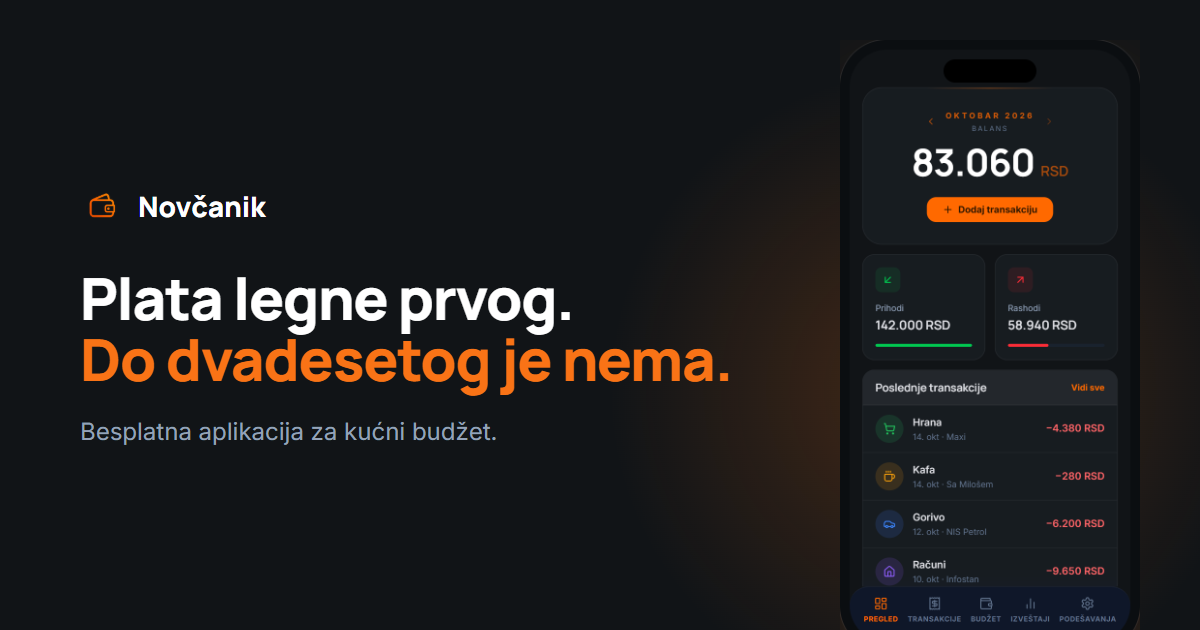
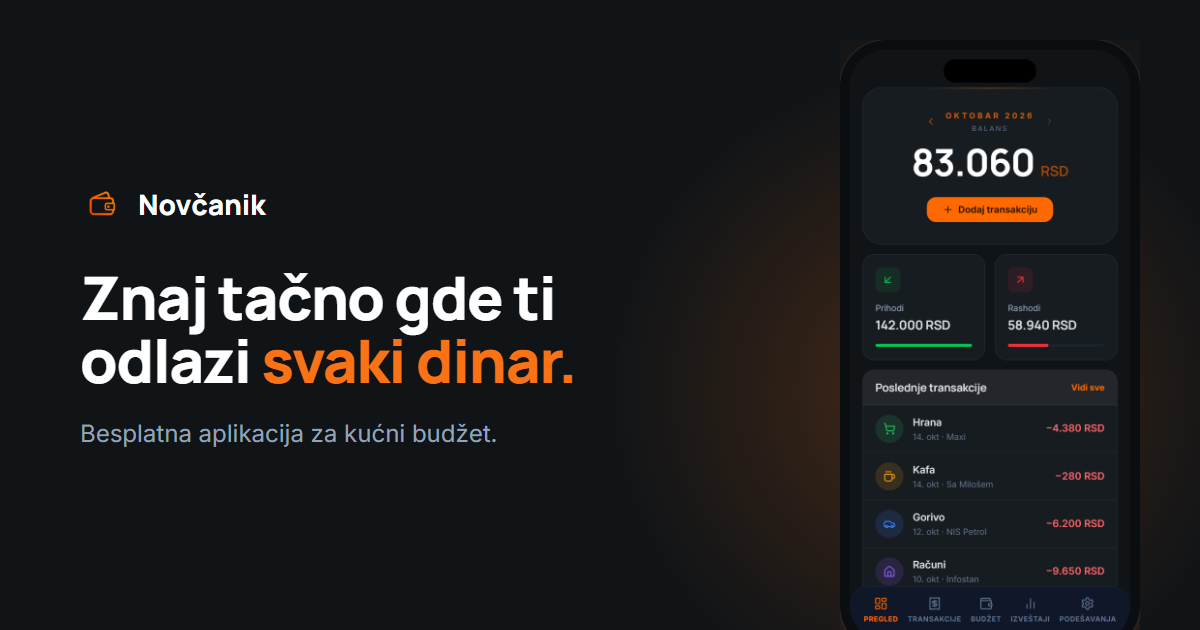
feat(landing): lead with what the app does and add a plan section
The opening line was a joke that did not say what Novčanik is. It now states the benefit directly, followed by a three-step section (track, cut bills, allocate in advance) and a sharper budget step; meta and share image follow the new headline.

Changed region(s): [[0.0617, 0.4222, 0.6167, 0.6333], [0.0617, 0.6635, 0.4008, 0.7238], [0.0617, 0.3016, 0.2158, 0.3619]]

diff --git a/index.html b/index.html
@@ -6,7 +6,7 @@
     <link rel="icon" type="image/png" href="/favicon.png" />
     <link rel="apple-touch-icon" href="/icon-192.png" />
     <title>Novčanik · Besplatna aplikacija za kućni budžet i praćenje troškova</title>
-    <meta name="description" content="Besplatna aplikacija za kućni budžet i praćenje troškova. Upisuješ prihode i troškove, a Novčanik pokaže stanje meseca, budžet po pravilu 50/20/20/10 i gde odlazi novac." />
+    <meta name="description" content="Besplatna aplikacija za kućni budžet i praćenje troškova. Prati prihode i troškove, vidi gde ti odlazi novac i rasporedi platu unapred po pravilu 50/20/20/10." />
     <link rel="canonical" href="https://novcanik.vercel.app/" />
     <meta name="theme-color" content="#f97316" />
     <link rel="preload" href="/fonts/inter-latin.woff2" as="font" type="font/woff2" crossorigin />
@@ -17,8 +17,8 @@
     <meta property="og:site_name" content="Novčanik" />
     <meta property="og:locale" content="sr_RS" />
     <meta property="og:url" content="https://novcanik.vercel.app/" />
-    <meta property="og:title" content="Plata legne prvog. Do dvadesetog je nema." />
-    <meta property="og:description" content="Novčanik ti pokaže gde je otišla. Besplatna aplikacija za kućni budžet i praćenje troškova." />
+    <meta property="og:title" content="Znaj tačno gde ti odlazi svaki dinar." />
+    <meta property="og:description" content="Novčanik prati prihode i troškove i deli platu na račune, trošenje, investiranje i davanje. Besplatno." />
     <meta property="og:image" content="https://novcanik.vercel.app/og-image.png" />
     <meta property="og:image:width" content="1200" />
     <meta property="og:image:height" content="630" />
@@ -26,8 +26,8 @@
 
     <!-- Twitter -->
     <meta name="twitter:card" content="summary_large_image" />
-    <meta name="twitter:title" content="Plata legne prvog. Do dvadesetog je nema." />
-    <meta name="twitter:description" content="Novčanik ti pokaže gde je otišla. Besplatna aplikacija za kućni budžet i praćenje troškova." />
+    <meta name="twitter:title" content="Znaj tačno gde ti odlazi svaki dinar." />
+    <meta name="twitter:description" content="Novčanik prati prihode i troškove i deli platu na račune, trošenje, investiranje i davanje. Besplatno." />
     <meta name="twitter:image" content="https://novcanik.vercel.app/og-image.png" />
 
     <!-- Structured data; the FAQ mirrors src/components/landing/faq.ts -->

diff --git a/src/pages/Landing.tsx b/src/pages/Landing.tsx
@@ -5,6 +5,7 @@ import { useAuth } from '../hooks/useAuth'
 import { HeroPhones } from '../components/landing/HeroPhones'
 import { StoryScroll } from '../components/landing/StoryScroll'
 import { FaqSection } from '../components/landing/FaqSection'
+import { PlanSteps } from '../components/landing/PlanSteps'
 
 const REPO_URL = 'https://github.com/alg0founder/novcanik'
 
@@ -29,14 +30,14 @@ export function Landing() {
       <main>
         <section className="px-5 md:px-8 pt-10 md:pt-16 text-center">
           <p className="animate-fade-up text-[11px] font-black text-orange-500 uppercase tracking-widest mb-5">
-            Novčanik · lične finansije
+            Novčanik · kućni budžet bez nagađanja
           </p>
           <h1 className="animate-fade-up [animation-delay:80ms] font-display text-[2.6rem] leading-[1.05] md:text-7xl font-extrabold text-white max-w-4xl mx-auto mb-6">
-            Plata legne prvog.<br />
-            <span className="text-orange-500">Do dvadesetog je nema.</span>
+            Znaj tačno gde ti odlazi <br className="hidden md:inline" />
+            <span className="text-orange-500">svaki dinar.</span>
           </h1>
           <p className="animate-fade-up [animation-delay:160ms] text-base md:text-lg text-slate-400 max-w-xl mx-auto leading-relaxed mb-8">
-            Novčanik ti pokaže gde je otišla. Trošak upišeš za par sekundi, ostalo sabere aplikacija.
+            Prati prihode i troškove, rasporedi platu unapred na račune, trošenje, investiranje i davanje, i ostavi više za sebe.
           </p>
           <div className="animate-fade-up [animation-delay:240ms] flex flex-wrap justify-center items-center gap-4 mb-3">
             <Link to="/login?tab=signup" className={primaryCta}>
@@ -51,6 +52,8 @@ export function Landing() {
           </p>
           <HeroPhones />
         </section>
+
+        <PlanSteps />
 
         <section className="pb-10 md:pb-20">
           <StoryScroll />

diff --git a/src/components/landing/PlanSteps.tsx b/src/components/landing/PlanSteps.tsx
@@ -1,0 +1,46 @@
+import { Eye, Scissors, PieChart } from 'lucide-react'
+
+const STEPS = [
+  {
+    icon: Eye,
+    title: 'Prati',
+    text: 'Svaki prihod i trošak na jednom mestu. Posle mesec dana vidiš gde ti novac stvarno odlazi.',
+  },
+  {
+    icon: Scissors,
+    title: 'Smanji račune',
+    text: 'Kad su računi crno na belo, odmah se vidi koji je najveći i gde može da se uštedi. Svaki dinar skinut sa računa ostaje tebi.',
+  },
+  {
+    icon: PieChart,
+    title: 'Rasporedi unapred',
+    text: 'Kad plata legne, već znaš koliko ide na trošenje, koliko na investiranje, a koliko na davanje. Ne čekaš kraj meseca da vidiš šta je ostalo.',
+  },
+]
+
+export function PlanSteps() {
+  return (
+    <section className="border-t border-white/5">
+      <div className="max-w-6xl mx-auto px-5 md:px-8 py-20 md:py-28">
+        <p className="text-[11px] font-black text-orange-500 uppercase tracking-widest mb-4">Plan pre plate</p>
+        <h2 className="font-display text-3xl md:text-5xl font-extrabold text-white leading-[1.1] max-w-3xl mb-14">
+          Novac koji nema plan potroši se sam. Novčanik mu daje plan.
+        </h2>
+        <ol className="grid md:grid-cols-3 gap-10 md:gap-12">
+          {STEPS.map(({ icon: Icon, title, text }, i) => (
+            <li key={title}>
+              <div className="flex items-center gap-3 mb-4">
+                <span className="w-11 h-11 rounded-xl bg-orange-500/10 text-orange-400 flex items-center justify-center">
+                  <Icon size={20} />
+                </span>
+                <span className="font-display text-sm font-bold text-slate-500">0{i + 1}</span>
+              </div>
+              <h3 className="font-display text-xl font-bold text-white mb-2">{title}</h3>
+              <p className="text-sm md:text-base text-slate-400 leading-relaxed">{text}</p>
+            </li>
+          ))}
+        </ol>
+      </div>
+    </section>
+  )
+}

diff --git a/src/components/landing/storySteps.tsx b/src/components/landing/storySteps.tsx
@@ -33,8 +33,8 @@ export const STORY_STEPS: StoryStep[] = [
   {
     tab: 'budzet',
     kicker: '03 · Budžet',
-    title: 'Pre nego što potrošiš, znaš koliko smeš.',
-    text: 'Računi se oduzmu sami. Ostatak deliš na trošenje, investiranje i davanje, po pravilu 50/20/20/10 ili kako tebi odgovara. Traka na vrhu pokazuje kako je podeljena cela plata.',
+    title: 'Investiraš na početku meseca, ne od ostatka.',
+    text: 'Računi se oduzmu sami, a ostatak deliš na trošenje, investiranje i davanje po pravilu 50/20/20/10 ili po svom. Traka na vrhu pokazuje kako je podeljena cela plata, pa svaki dinar koji skineš sa računa odmah vidiš kao više za sve ostalo.',
     screen: <BudgetScreen />,
   },
   {
